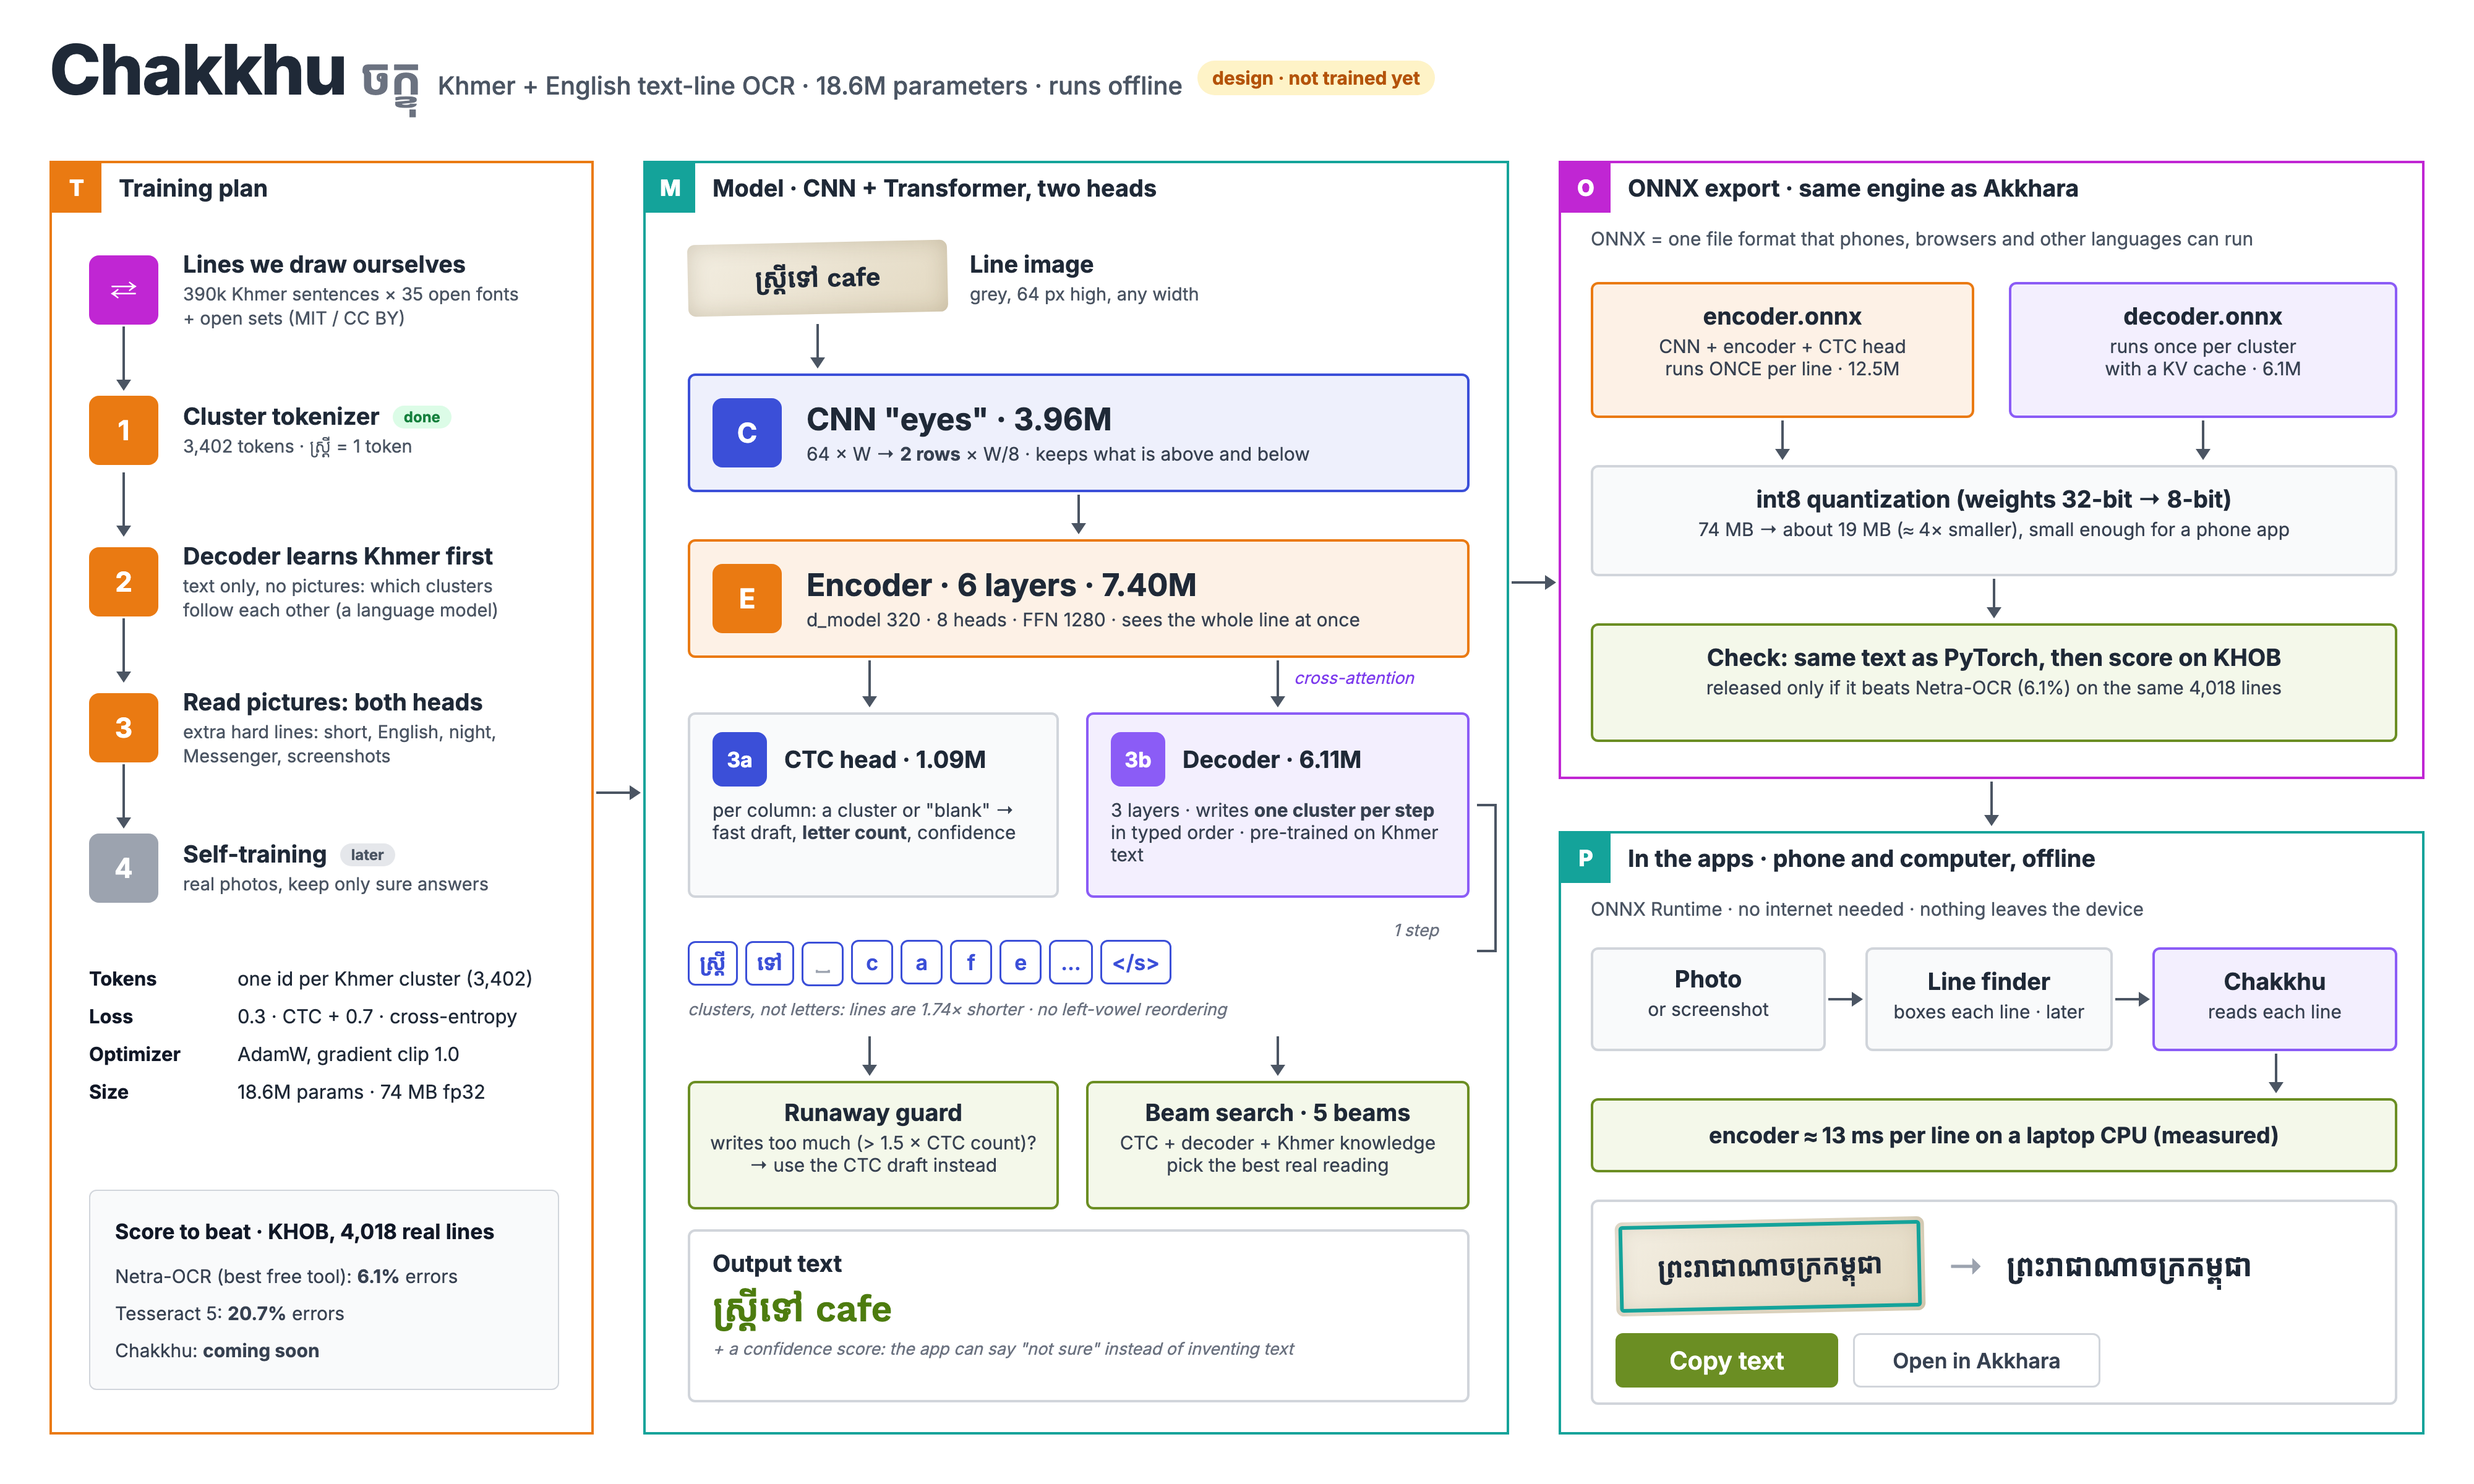
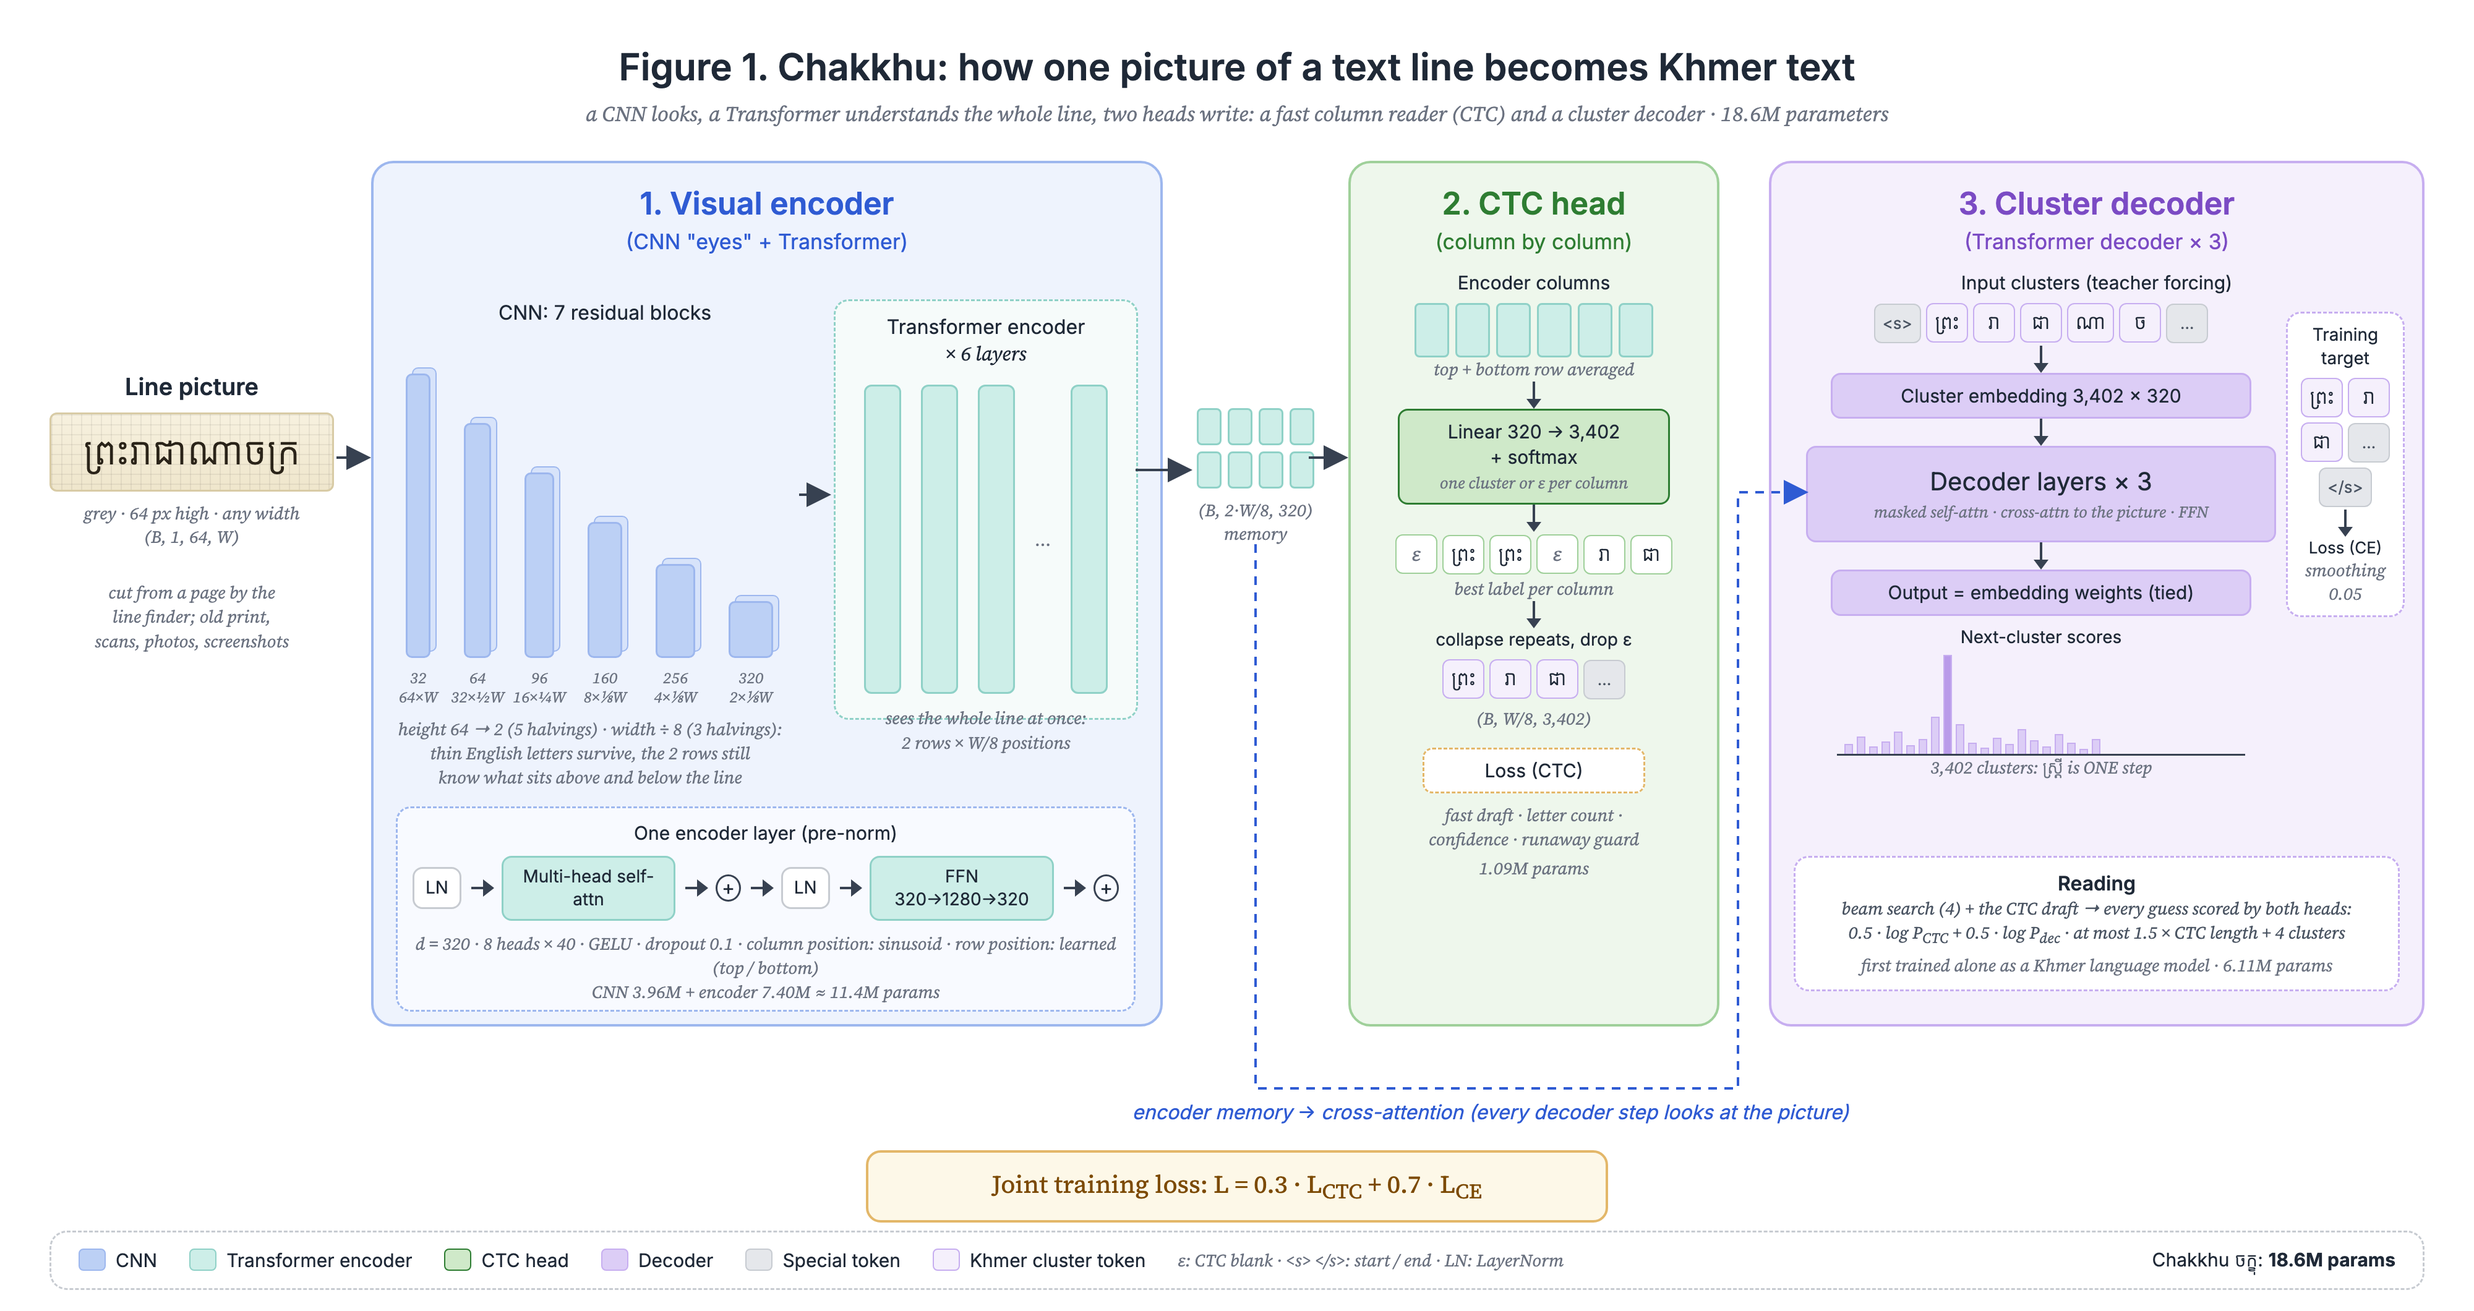
Detailed architecture figures: model overview, inside the blocks, how Chakkhu learns and reads

diff --git a/index.html b/index.html
@@ -449,19 +449,19 @@ pre.code code{white-space:pre}
 
 <section id="architecture">
   <div class="wrap">
-    <div class="eyebrow">Architecture · the plan</div>
+    <div class="eyebrow">Architecture · the model</div>
     <h2>A small model built for Khmer</h2>
     <p class="sub">Big AI chat models that "see" pictures make 33–89% mistakes on Khmer. Small, specialised readers win, so Chakkhu is one:
-      <b>18.6 million</b> parameters (about 19 MB on a phone), trained from scratch, the same size class as the Akkhara keyboard model. The model code is written and tested; training comes next.</p>
+      <b>18.6 million</b> parameters (about 19 MB on a phone), trained from scratch, the same size class as the Akkhara keyboard model. Click a figure to zoom.</p>
 
-    <a class="zoom" href="assets/architecture.png" data-alt="Chakkhu architecture: training plan, model, ONNX export and apps"><img class="figure" src="assets/architecture.png" alt="Chakkhu architecture: CNN eyes, Transformer encoder, CTC head and cluster decoder, runaway guard, beam search, ONNX export and apps" loading="lazy"></a>
+    <a class="zoom" href="assets/architecture.png" data-alt="Figure 1: Chakkhu architecture"><img class="figure" src="assets/architecture.png" alt="Figure 1. Chakkhu architecture: line picture, CNN with 7 residual blocks, Transformer encoder with 6 layers, CTC head and cluster decoder with 3 layers, joint loss" loading="lazy"></a>
 
     <div class="grid g2" style="margin-top:26px">
       <div class="card">
         <h3>Why this design</h3>
         <ul class="ticks">
           <li><b>Whole clusters, not letters.</b> <span class="km">ស្ត្រី</span> is one token (3,402 in total), so lines are 1.74× shorter and vowels drawn on the left need no reordering.</li>
-          <li><b>Knows Khmer before it reads.</b> The decoder first learns from 390k Khmer sentences, so blurry letters are guessed from the words around them.</li>
+          <li><b>Knows Khmer before it reads.</b> The decoder first learns from Khmer text alone, so blurry letters are guessed from the words around them.</li>
           <li><b>Keeps the height.</b> 64 px lines, 2 rows inside the model, so stacked letters above and below are not lost.</li>
           <li><b>Never invents text.</b> The CTC head counts the letters; if the decoder writes too much, its draft is used. Netra's run-aways were 17% of its errors.</li>
           <li><b>Trained on the hard cases</b>: short lines, English, night photos, Messenger images and chat screenshots.</li>
@@ -478,6 +478,8 @@ pre.code code{white-space:pre}
         </table>
       </div>
     </div>
+    <a class="zoom" href="assets/blocks.png" data-alt="Figure 2: inside the blocks"><img class="figure" style="margin-top:26px" src="assets/blocks.png" alt="Figure 2. Inside the blocks: CNN residual block with the 7-block table, Transformer encoder layer, decoder layer and the cluster tokenizer" loading="lazy"></a>
+    <a class="zoom" href="assets/training-reading.png" data-alt="Figure 3: how Chakkhu learns and reads"><img class="figure" style="margin-top:26px" src="assets/training-reading.png" alt="Figure 3. Training data with 9 picture styles and the training steps; reading with both heads and the runaway guard; confidence and the Chakkhu Lab page loop" loading="lazy"></a>
   </div>
 </section>
 
